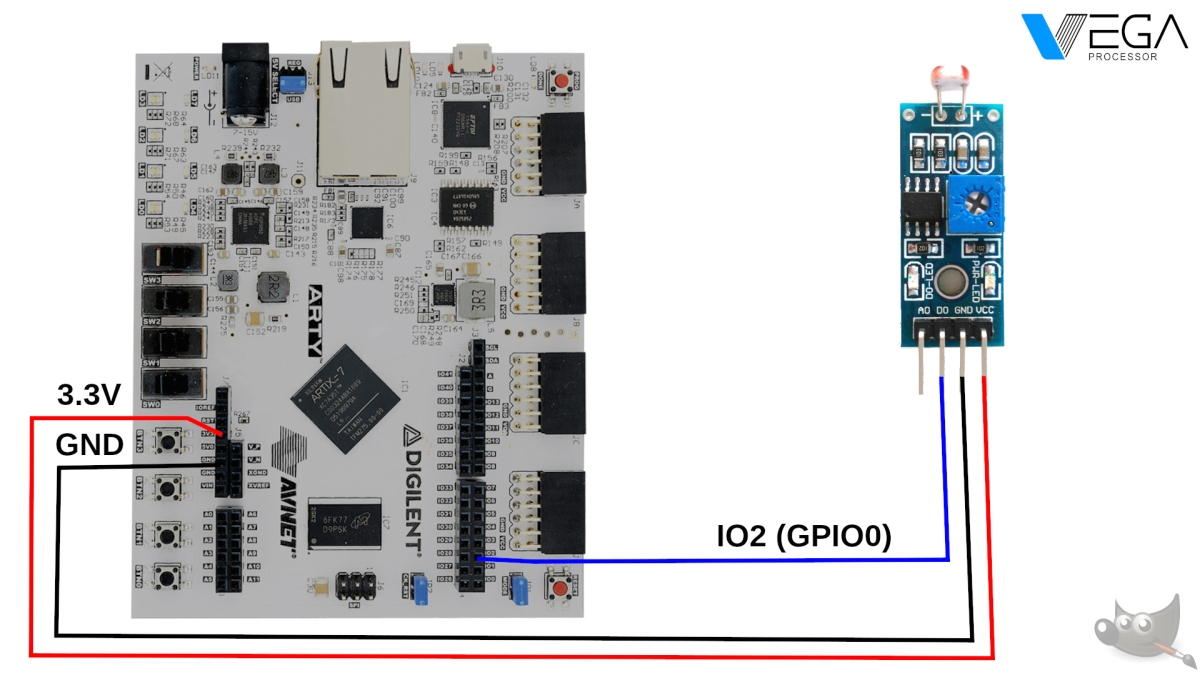
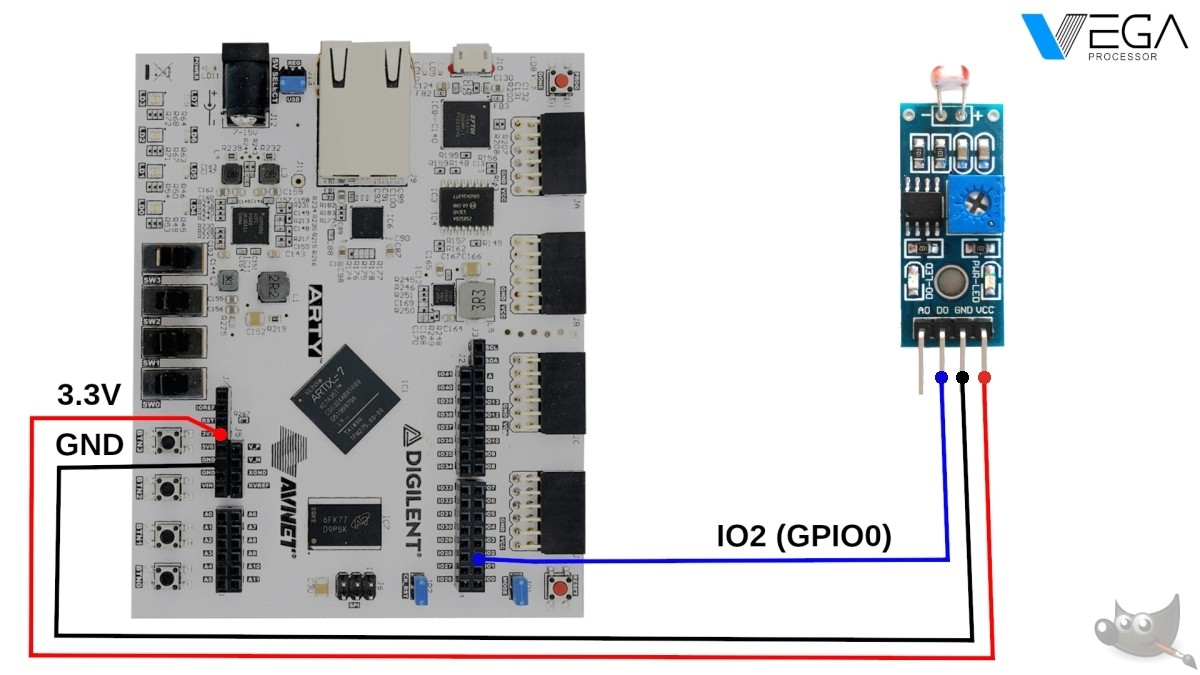
Adding wiring diagram for example programs.

diff --git a/examples/gpio/relay_pgm/README.md b/examples/gpio/relay_pgm/README.md
@@ -1,4 +1,4 @@
-# LDR Sensor Demo Program
+# Relay Demo Program
 
 ## Wiring Diagram
 
